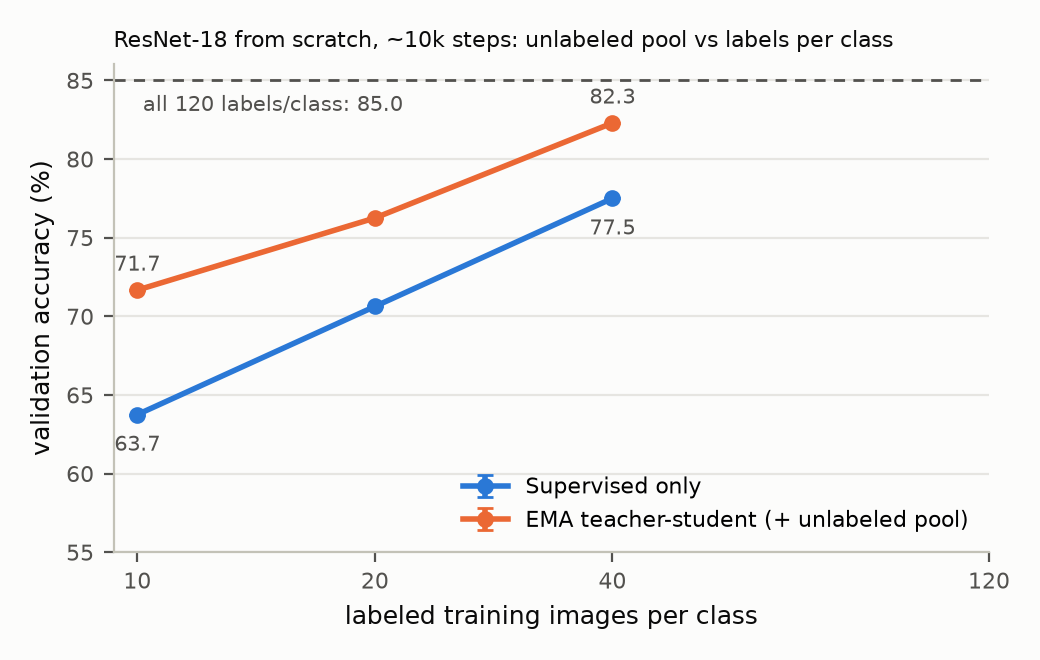
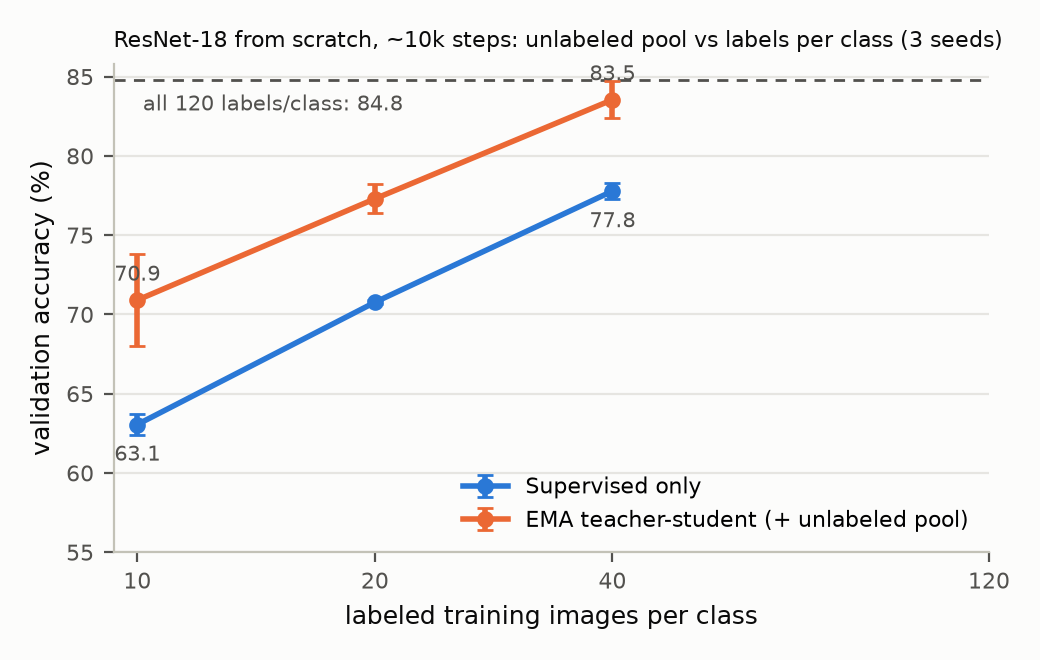
Branch: extended scratch study at 3 seeds (figure with error bars, table mean ± std)
Claude-Session: https://claude.ai/code/session_019nbQ3zP7gokykaQi6XTDJv

diff --git a/docs/branch/README.md b/docs/branch/README.md
@@ -53,15 +53,15 @@ versions are queued.
 
 ## 3. Extended-budget runs (seed 0, finished 2026-10-03 00:02)
 
-### 3a. From-scratch low-label study at ~10k steps (vs ~3k above)
+### 3a. From-scratch low-label study at ~10k steps (vs ~3k above); 10k rows are mean ± std over 3 seeds
 
 | ResNet-18 scratch, labels/class | 10 | 20 | 40 | 120 (all) |
 |---|---|---|---|---|
-| supervised, 3k steps | 60.4 | 68.3 | 76.2 | 83.3 |
-| supervised, 10k steps | 63.7 | 70.6 | 77.5 | 85.0 |
-| teacher-student, 3k steps | 67.9 | 75.8 | 80.6 | |
-| teacher-student, 10k steps | **71.7** | **76.2** | **82.3** | |
-| gain from pool at 10k | +7.9 | +5.6 | +4.8 | |
+| supervised, 3k steps (seed 0) | 60.4 | 68.3 | 76.2 | 83.3 |
+| supervised, 10k steps (3 seeds) | 63.1 ± 0.6 | 70.8 ± 0.1 | 77.8 ± 0.5 | 84.8 ± 0.6 |
+| teacher-student, 3k steps (seed 0) | 67.9 | 75.8 | 80.6 | |
+| teacher-student, 10k steps (3 seeds) | **70.9 ± 2.9** | **77.3 ± 0.9** | **83.5 ± 1.2** | |
+| gain from pool at 10k (mean) | +7.8 | +6.5 | +5.8 | |
 
 Final teacher diagnostics at 10k steps (mask rate / pseudo-label accuracy): k=10: 0.83 / 0.742, k=20: 0.91 / 0.756, k=40: 0.94 / 0.843.
 

diff --git a/docs/branch/lowlabel_r18_scratch_long.md b/docs/branch/lowlabel_r18_scratch_long.md
@@ -1,6 +1,6 @@
 | labels/class | Supervised only | EMA teacher-student (+ unlabeled pool) |
 |---|---|---|
-| 10 | 63.75 | 71.67 |
-| 20 | 70.63 | 76.25 |
-| 40 | 77.50 | 82.29 |
-| 120 (all) | 85.00 (n=1) | - |
+| 10 | 63.06 ± 0.64 (n=3) | 70.90 ± 2.89 (n=3) |
+| 20 | 70.76 ± 0.12 (n=3) | 77.29 ± 0.91 (n=3) |
+| 40 | 77.78 ± 0.48 (n=3) | 83.54 ± 1.16 (n=3) |
+| 120 (all) | 84.79 ± 0.55 (n=3) | - |
